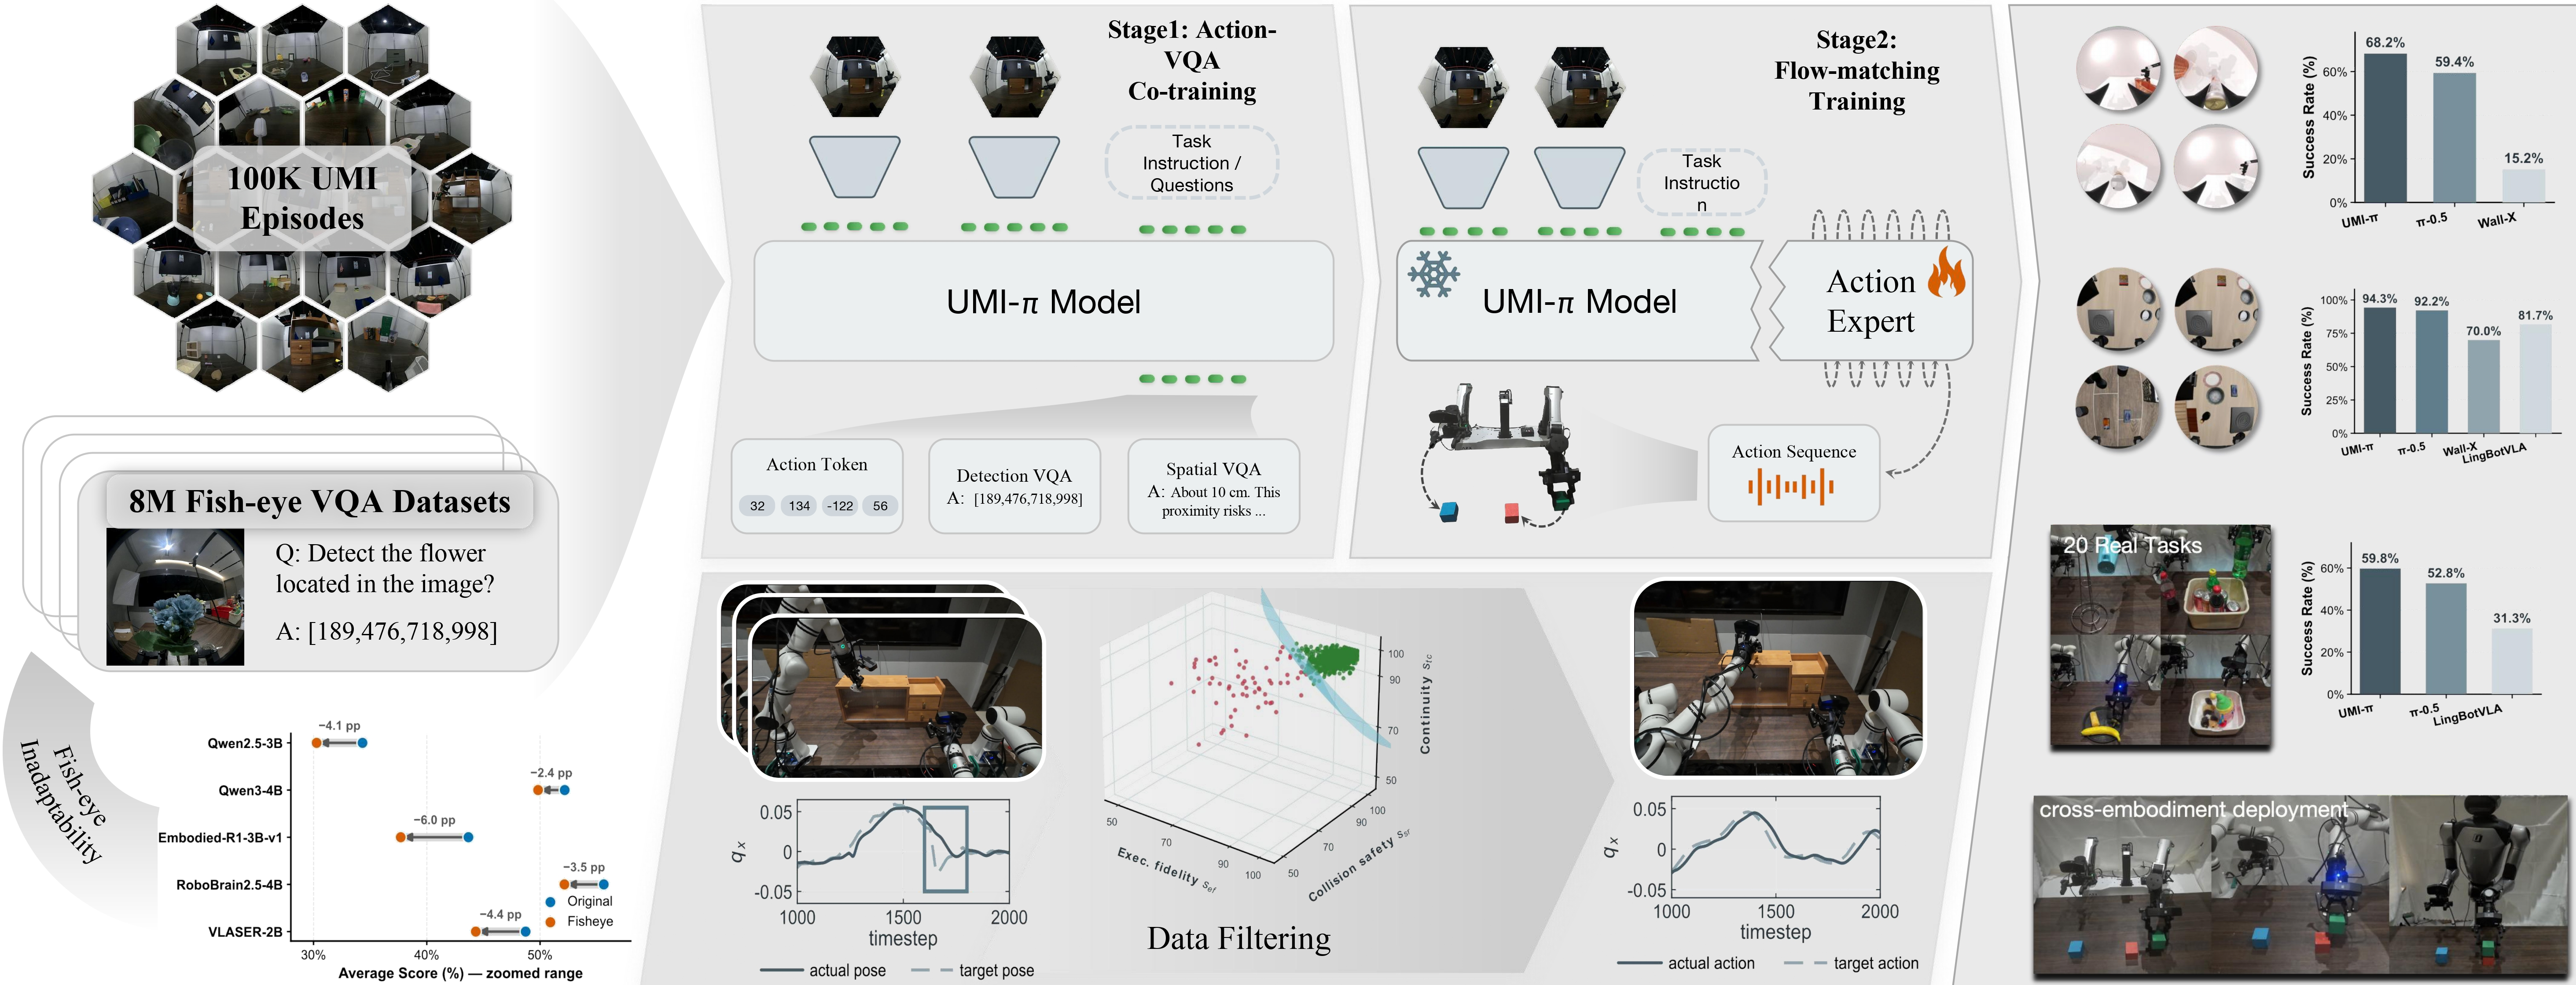
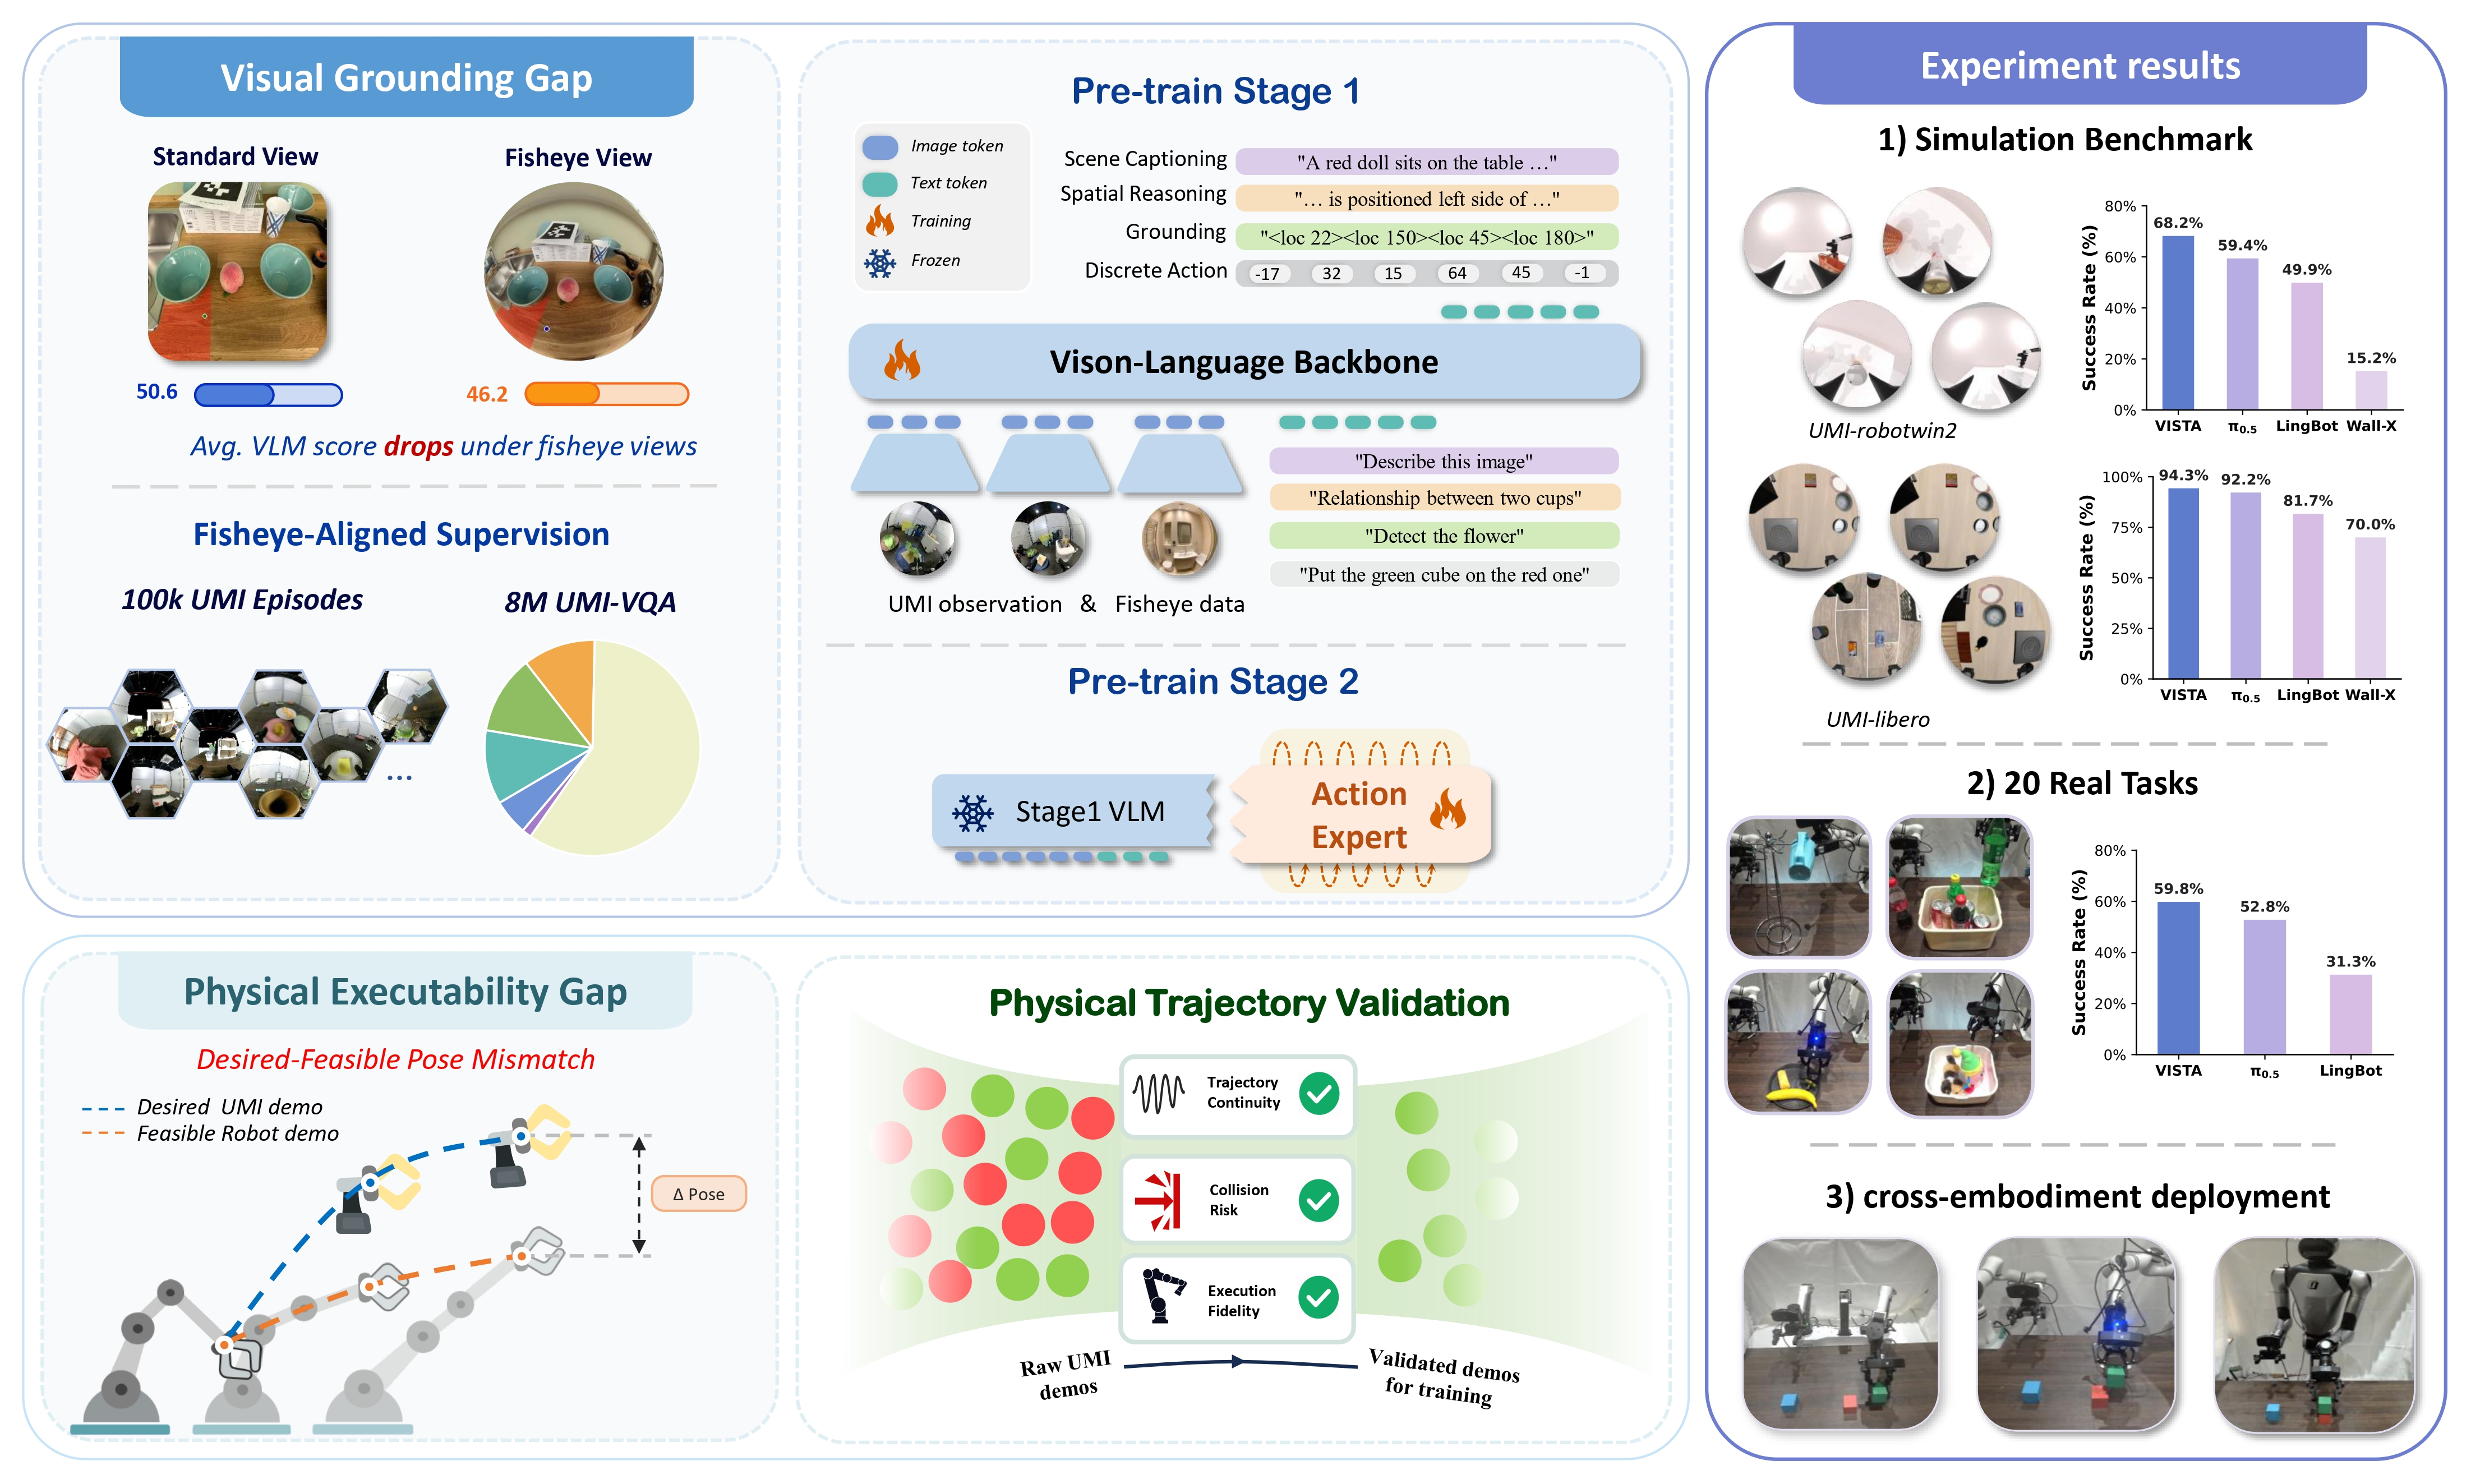
update method fig; add mismatch vid

diff --git a/index.html b/index.html
@@ -105,6 +105,16 @@
           </p>
         </div>
       </div>
+      <figure class="fig-architecture" data-slot="fig1-architecture">
+        <img
+          src="assets/images/method.jpg"
+          alt="UMI-π framework: UMI-VQA perception alignment, physical validation, two-stage co-training, and deployment"
+          width="1100"
+          height="421"
+          loading="lazy"
+          decoding="async"
+        />
+      </figure>
     </section>
 
     <!-- ========== THE DUAL GAP ========== -->
@@ -126,10 +136,16 @@
         <div class="view-compare-grid container-wide">
           <article class="view-compare-card view-compare-card--main">
             <div class="view-compare-media" data-slot="visual-main">
-              <!-- 替换：assets/videos/main_view.mp4 -->
-              <video class="view-compare-video" muted loop playsinline preload="metadata" aria-label="Main view demonstration">
-                <!-- <source src="assets/videos/main_view.mp4" type="video/mp4" /> -->
-              </video>
+              <video
+                class="view-compare-video"
+                src="assets/videos/motiv_mismatch/main.mp4"
+                muted
+                loop
+                playsinline
+                autoplay
+                preload="metadata"
+                aria-label="Main view demonstration"
+              ></video>
               <div class="view-compare-placeholder placeholder-box">
                 <span class="ph-tag">Video · Main view</span>
                 <p class="ph-small">待上传 · 主视角 / 第三人称</p>
@@ -145,10 +161,16 @@
 
           <article class="view-compare-card view-compare-card--fisheye">
             <div class="view-compare-media fisheye-preview" data-slot="visual-fisheye">
-              <!-- 替换：assets/videos/fisheye_view.mp4 -->
-              <video class="view-compare-video" muted loop playsinline preload="metadata" aria-label="UMI wrist fisheye demonstration">
-                <!-- <source src="assets/videos/fisheye_view.mp4" type="video/mp4" /> -->
-              </video>
+              <video
+                class="view-compare-video"
+                src="assets/videos/motiv_mismatch/fish-eye.mp4"
+                muted
+                loop
+                playsinline
+                autoplay
+                preload="metadata"
+                aria-label="UMI wrist fisheye demonstration"
+              ></video>
               <div class="view-compare-placeholder placeholder-box">
                 <span class="ph-tag">Video · Fisheye</span>
                 <p class="ph-small">待上传 · 手腕鱼眼 · 155° FOV</p>
@@ -285,16 +307,6 @@
         <div class="container-wide">
           <h2 class="section-title center">The UMI-π Framework</h2>
         </div>
-        <figure class="fig-architecture" data-slot="fig1-architecture">
-          <img
-            src="assets/images/method.jpg"
-            alt="UMI-π framework: UMI-VQA perception alignment, physical validation, two-stage co-training, and deployment"
-            width="1100"
-            height="421"
-            loading="lazy"
-            decoding="async"
-          />
-        </figure>
         <div class="container-wide method-hero-body">
           <div class="prose method-overview">
             <p>
@@ -387,7 +399,7 @@
                 </p>
                 <ul class="training-points">
                   <li>
-                    <strong>Action learning.</strong> Each continuous action chunk \(a_{t:t+H}\) is converted into a
+                    <strong>Action learning.</strong> Each continuous action chunk \(a_{t:t+H-1}\) is converted into a
                     sequence of discrete FAST tokens \(z_{1:N_a}\). Given visual observations \(o_t\), language
                     instruction \(l\), and robot state \(s_t\), the target output is the action-token sequence
                     \(z_{1:N_a}\).

diff --git a/css/styles.css b/css/styles.css
@@ -269,10 +269,6 @@ video {
   position: relative;
   min-height: 105vh;
   min-height: 105dvh;
-  display: flex;
-  align-items: flex-end;
-  justify-content: center;
-  padding-bottom: clamp(1.25rem, 4vw, 2.75rem);
   background: var(--bg-deep);
 }
 
@@ -349,16 +345,22 @@ video {
 }
 
 .teaser-overlay {
-  position: relative;
+  position: absolute;
+  inset: 0;
   z-index: 2;
-  width: 100%;
-  max-width: min(52rem, 100%);
-  padding: calc(var(--header-h) + 0.75rem) 1.5rem 0;
-  text-align: center;
   display: flex;
   flex-direction: column;
   align-items: center;
+  justify-content: center;
+  width: 100%;
+  padding: 0 1.5rem;
+  text-align: center;
   gap: clamp(1.25rem, 3vw, 1.85rem);
+  pointer-events: none;
+}
+
+.teaser-overlay a {
+  pointer-events: auto;
 }
 
 .teaser-copy {
@@ -2721,7 +2723,19 @@ video {
 .method-hero-screen {
   min-height: auto;
   justify-content: flex-start;
-  padding: 2.75rem 0 5rem;
+  padding: 2.75rem 0 0rem;
+}
+
+.method-hero-screen + .method-screen {
+  padding-top: 2rem;
+}
+
+.method-screen + .method-screen {
+  padding-top: 2rem;
+}
+
+.section-method #method-vqa {
+  padding-bottom: 2rem;
 }
 
 .section-method .section-title {
@@ -2763,7 +2777,7 @@ video {
 }
 
 .method-hero-body {
-  margin-top: 2.25rem;
+  margin-top: 1.5rem;
 }
 
 .method-screen-inner,